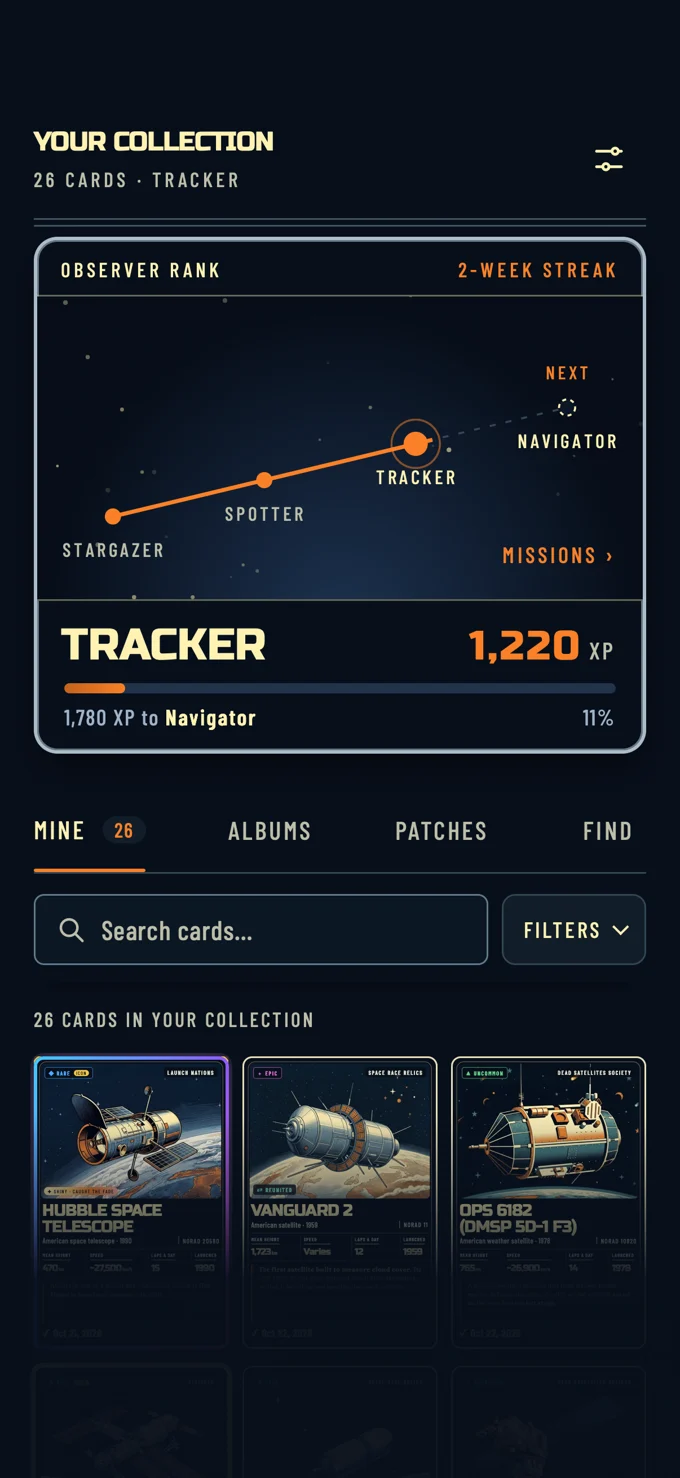
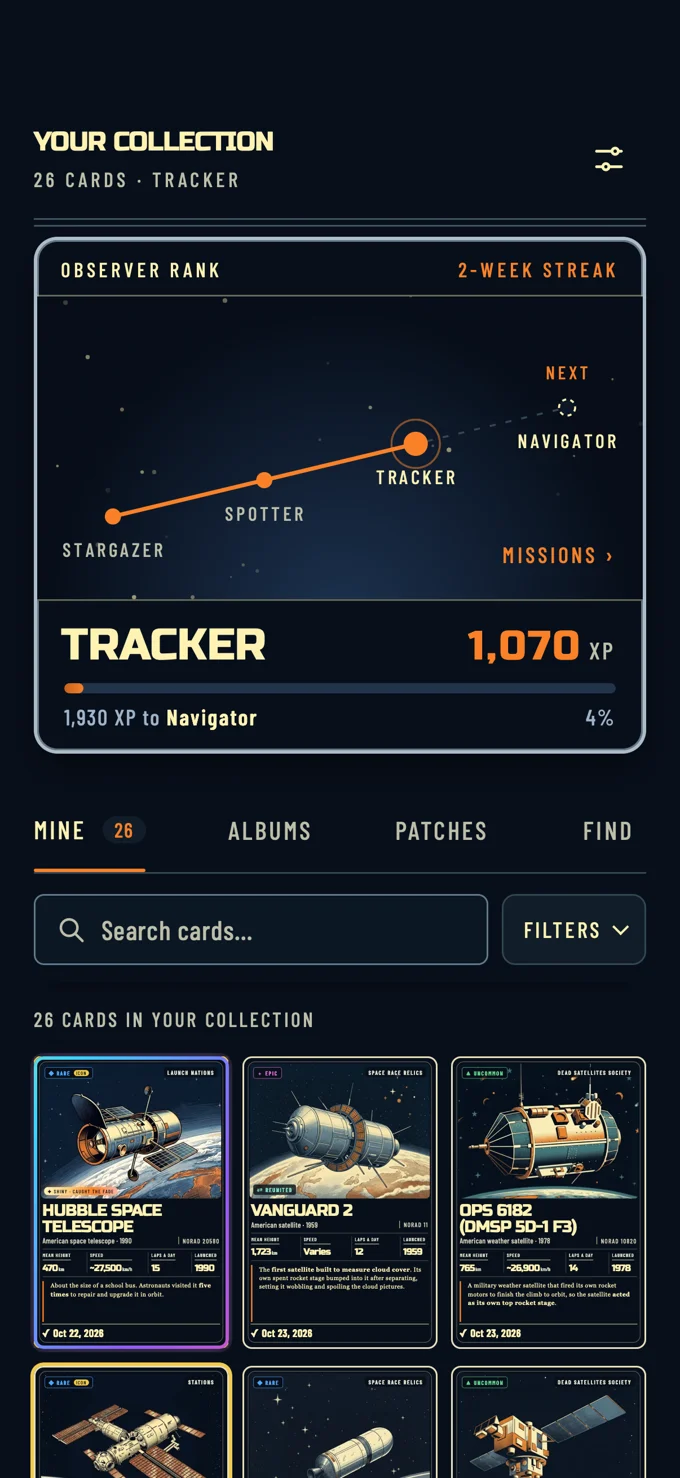
Design board: ways to separate the tab bar from content behind it

diff --git a/design/tabs-separation.html b/design/tabs-separation.html
@@ -1,0 +1,60 @@
+<!doctype html>
+<html lang="en"><head><meta charset="utf-8"><meta name="viewport" content="width=device-width,initial-scale=1">
+<title>Tabs Separation</title>
+<!-- 2026-10-24 (Sevaan: "give me a few options on how to make it feel a bit more separated if there is content directly
+     behind it"). The built tab bar (words only, 54 px, today's colours) over the real Tonight and Collection screens with
+     a list running under it, no fade (explore-redesign/nd-*.webp). -->
+<style>
+  @font-face { font-family: 'SC Label'; src: url('../fonts/BarlowCondensed-Medium.ttf'); font-weight: 500; }
+  @font-face { font-family: 'SC Display'; src: url('../fonts/RussoOne-Regular.ttf'); }
+  :root { --ink: #fff2b3; --orange: #fa8127; }
+  * { box-sizing: border-box; }
+  body { margin: 0; background: #04070d; color: #e8eef6; font: 15px/1.45 -apple-system, system-ui, sans-serif; padding: 28px 16px 80px; }
+  .wrap { max-width: 1560px; margin: 0 auto; }
+  h1 { font: 400 26px 'SC Display', sans-serif; color: var(--ink); margin: 0 0 6px; }
+  .intro { color: #9fb0c6; max-width: 980px; margin: 0 0 18px; }
+  .grid { display: grid; grid-template-columns: repeat(auto-fill, 358px); gap: 34px 30px; }
+  .cell h2 { font: 500 14px 'SC Label'; letter-spacing: .2em; text-transform: uppercase; color: var(--orange); margin: 10px 0 2px; }
+  .cell p { margin: 0; color: #b9c5d4; font-size: 13.5px; }
+  .ph { position: relative; box-sizing: content-box; width: 340px; height: 420px; border-radius: 0 0 44px 44px; border: 9px solid #121722; border-top: 0; overflow: hidden; background: #0b1424 bottom / 340px auto no-repeat; }
+  .ph > * { position: absolute; }
+  /* the built bar */
+  .bar { left: 14px; right: 14px; bottom: 20px; height: 54px; border-radius: 18px; display: grid; grid-template-columns: repeat(3, 1fr); overflow: hidden;
+    background: rgba(8,15,27,.9); }
+  .bar::before { content: ''; position: absolute; top: 0; height: 3px; width: 33.333%; left: calc(var(--i) * 33.333%); background: var(--orange); z-index: 2; }
+  .bar span { display: grid; place-items: center; font: 500 12px 'SC Label'; letter-spacing: .2em; color: #c9cbb6; position: relative; z-index: 1; }
+  .bar span.on { color: var(--orange); }
+  /* options */
+  .o-now { box-shadow: 0 10px 24px rgba(0,0,0,.35); }
+  .o-solid { background: #080f1b; box-shadow: 0 0 0 1px #fff2b31f, 0 10px 24px rgba(0,0,0,.35); }
+  .o-lift { background: #080f1b; box-shadow: 0 -10px 26px 6px #04070dee, 0 10px 24px rgba(0,0,0,.5); }
+  .o-raised { background: #142235; box-shadow: inset 0 1px 0 #ffffff14, 0 10px 24px rgba(0,0,0,.45); }
+  .o-raised span { color: #dcdcc8; }
+  .o-frame { background: #080f1b; box-shadow: inset 0 0 0 1px #fff2b333, 0 0 0 4px #04070d, 0 10px 24px rgba(0,0,0,.4); }
+  .o-blur { background: rgba(8,15,27,.62); backdrop-filter: blur(14px) saturate(1.3); -webkit-backdrop-filter: blur(14px) saturate(1.3); box-shadow: inset 0 1px 0 #ffffff1a, 0 10px 24px rgba(0,0,0,.35); }
+  .o-shelf { left: 0; right: 0; bottom: 0; height: 96px; border-radius: 0; background: #080f1b; border-top: 1px solid #22324a; }
+  .o-shelf-bar { background: transparent !important; box-shadow: none !important; }
+  .rec { max-width: 980px; margin: 40px 0 0; padding: 16px 18px; border: 1px solid #fa812744; border-radius: 14px; background: #fa81270c; color: #d7dfe8; font-size: 14.5px; }
+  .rec b { color: var(--ink); }
+</style></head><body><div class="wrap">
+<h1>Tab bar: standing apart from the list</h1>
+<p class="intro">Today's tab bar (words only, 54 px, no fade) over a list that runs right under it, on Tonight and the Collection. Each option keeps the same bar and colours; only what separates it from the content changes.</p>
+<div class="grid" id="g"></div>
+<div class="rec"><b>My pick: 1 · Solid + hairline.</b> A fully solid bar with a faint cream outline: the list stops at a clean edge, nothing shows through, and it matches the cards' thin frames. <b>3 · Raised</b> is the runner-up if you want it to read as a separate surface. I'd avoid 5 (blur), since glass is what you didn't like.</div>
+</div>
+<script>
+const tabs = ['tonight', 'explore', 'collection'];
+const bar = (cls, on) => `<div class="bar ${cls}" style="--i:${tabs.indexOf(on)}">${tabs.map((t) => `<span class="${t === on ? 'on' : ''}">${t.toUpperCase()}</span>`).join('')}</div>`;
+const opts = [
+  ['o-now', 'Now', 'Today’s bar with no fade: 90% dark glass, a soft shadow under it. The list shows faintly through and runs right up to it.'],
+  ['o-solid', '1 · Solid + hairline', 'Fully solid, with a faint cream outline (like the cards’ frames). A clean edge; nothing shows through.'],
+  ['o-lift', '2 · Lifted', 'Solid, with a dark shadow spreading upward, so the list darkens just around the bar as it passes under.'],
+  ['o-raised', '3 · Raised surface', 'A lighter navy than the page, with a light top edge: it reads as its own layer sitting on top.'],
+  ['o-frame', '4 · Framed', 'Solid with a cream outline and a thin dark gap around it, cut out of the list like a sticker.'],
+  ['o-blur', '5 · Frosted', 'More see-through but blurred: the list softens behind it. (The glass look you didn’t like, for comparison.)'],
+  ['o-shelf', '6 · Shelf', 'The bar sits on a solid strip that runs edge to edge across the bottom, with a fine line on top. The list stops at the line.'],
+];
+const screens = [['tonight', 'nd-tonight'], ['collection', 'nd-collection']];
+document.getElementById('g').innerHTML = opts.map(([cls, name, text]) => screens.map(([on, img]) => `<div class="cell"><div class="ph" style="background-image:url('explore-redesign/${img}.webp')">${cls === 'o-shelf' ? '<div class="o-shelf"></div>' + bar('o-shelf-bar', on) : bar(cls, on)}</div><h2>${name} · ${on}</h2><p>${text}</p></div>`).join('')).join('');
+</script>
+</body></html>
